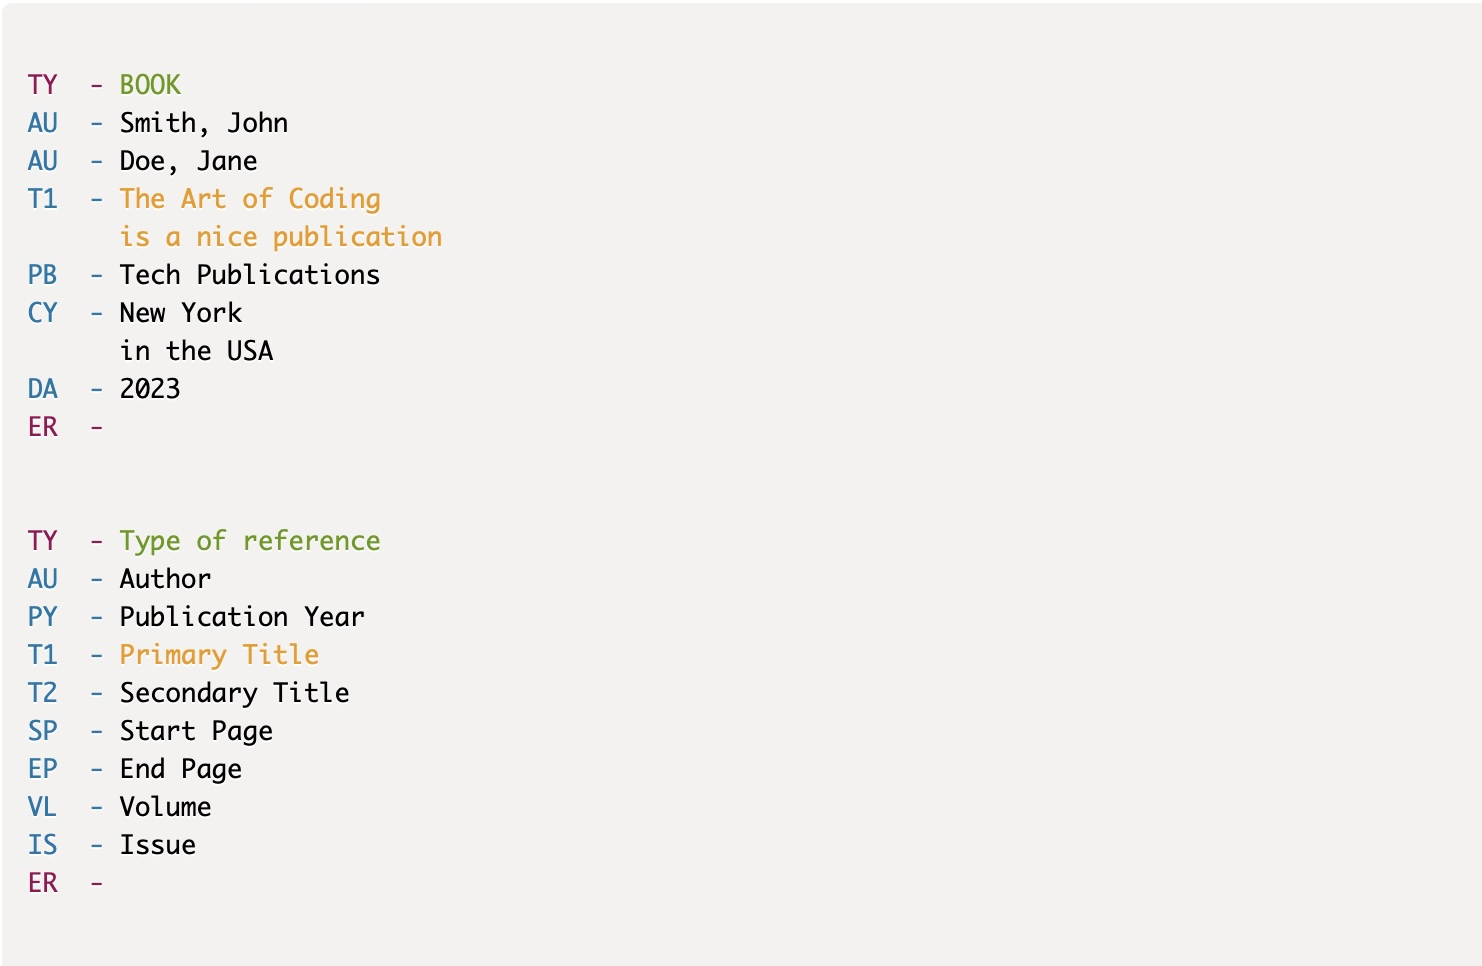
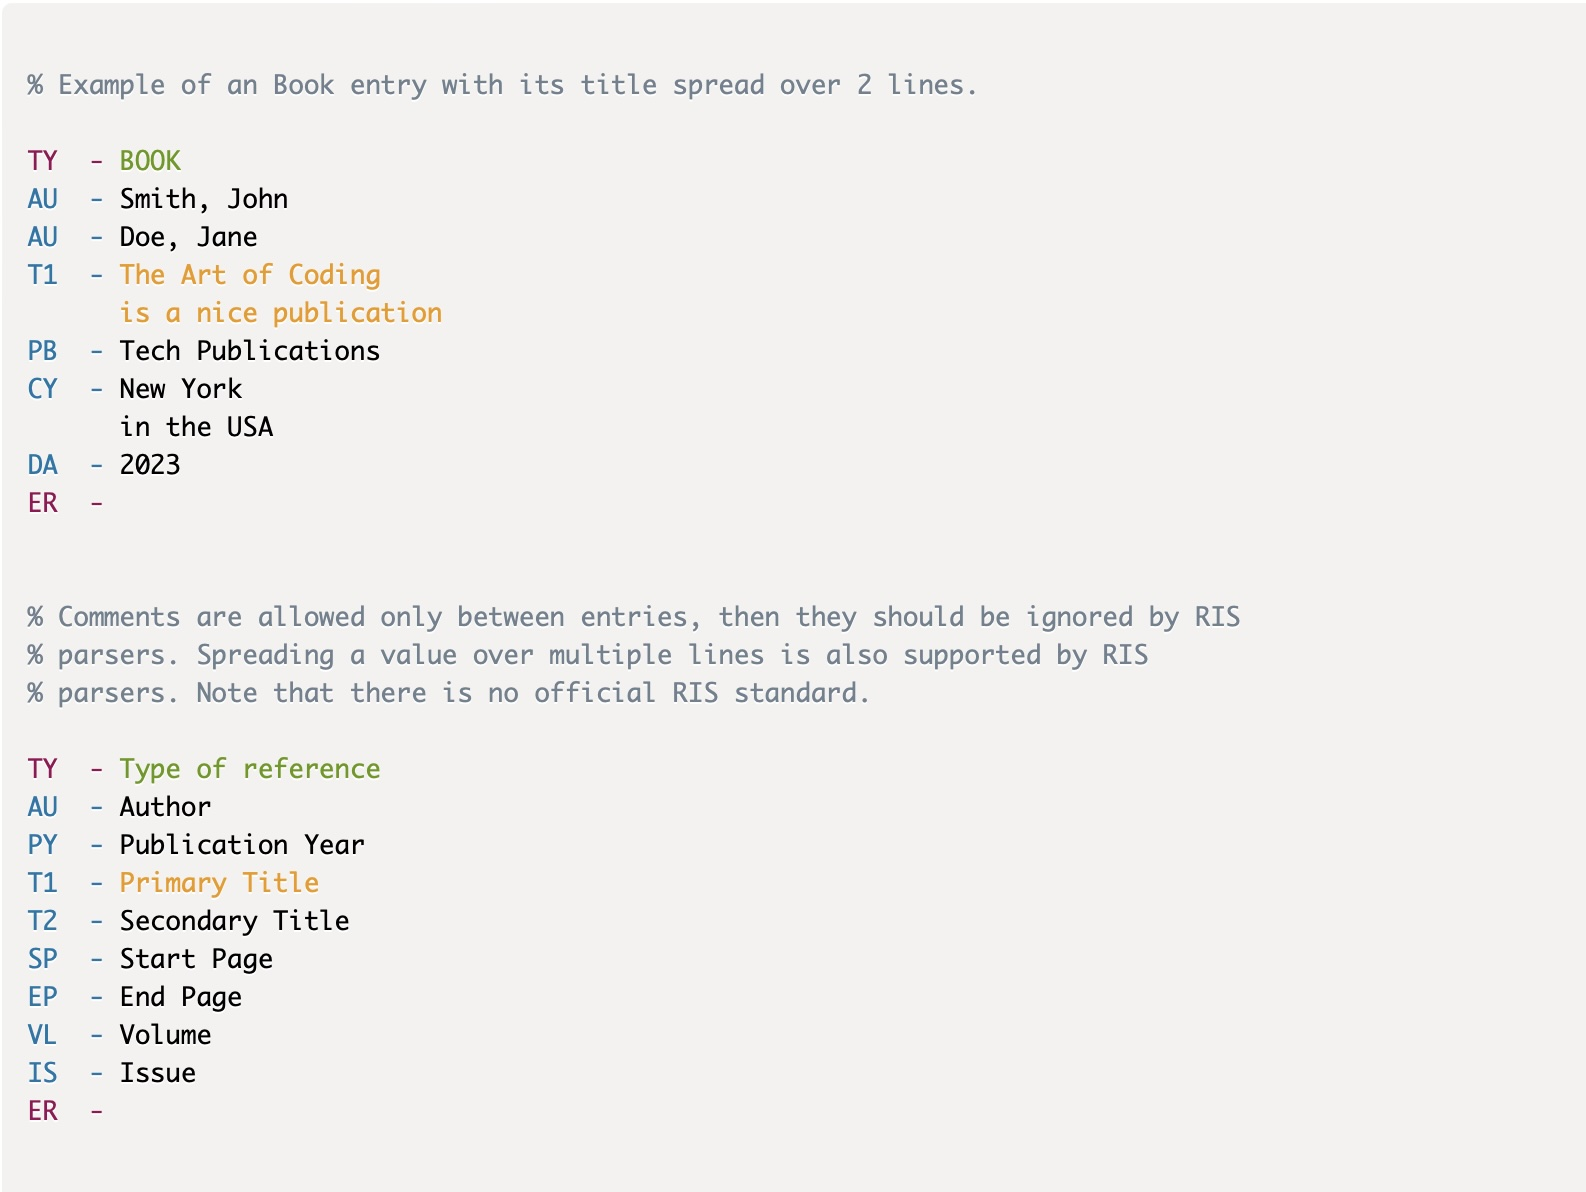
improved example and comments about it

Changed region(s): [[0.0, 0.4969, 0.776, 0.9317], [0.0, 0.0621, 0.5277, 0.4658], [0.5587, 0.0621, 0.6208, 0.0932]]

diff --git a/example.html b/example.html
@@ -16,7 +16,7 @@
 
     <script src="https://cdnjs.cloudflare.com/ajax/libs/prism/1.23.0/prism.min.js"></script>
 
-    <script src="prism-ris.js"></script>
+    <script src="https://cdn.jsdelivr.net/npm/prismjs-ris@1.0.2/prism-ris.min.js"></script>
 
     <style>
       body {
@@ -42,6 +42,8 @@
     </p>
 
     <pre><code class="language-ris">
+% Example of an Book entry with its title spread over 2 lines.    
+
 TY  - BOOK
 AU  - Smith, John
 AU  - Doe, Jane
@@ -53,6 +55,10 @@ CY  - New York
 DA  - 2023
 ER  - 
 
+
+% Comments are allowed only between entries, then they should be ignored by RIS
+% parsers. Spreading a value over multiple lines is also supported by RIS 
+% parsers. Note that there is no official RIS standard.
 
 TY  - Type of reference
 AU  - Author
@@ -181,10 +187,10 @@ ER  -
 
 
 % Just use a % character followed by a space at the beginning of a line to
-% start a comment. Put a comment above the publication and separate it with multiple
-% empty lines above it and one between the comment and the publication. This makes
-% clear to which publication the comment belongs to, but it is clearly separated
-% from the publication.
+% start a comment. Put a comment above the publication and separate it with 
+% multiple empty lines above it and one between the comment and the 
+% publication. This makes clear to which publication the comment belongs to, 
+% but it is clearly separated from the publication.
 
 TY  - Type of reference
 AU  - Author

diff --git a/README.md b/README.md
@@ -3,7 +3,10 @@
 [![npm package](https://img.shields.io/npm/v/prismjs-ris?logo=npm&style=for-the-badge)](https://www.npmjs.com/package/prismjs-ris)
 [![jsDelivr hits](https://img.shields.io/jsdelivr/npm/hm/prismjs-ris?color=gold&logo=javascript&style=for-the-badge)](https://www.jsdelivr.com/package/npm/prismjs-ris)
 
-A [RIS] language extension for [PrismJS].
+Syntax highlighting the RIS publication format.
+
+Implemented by a language definition for RIS in the PrismJS syntax highlighting
+framework.
 
 ## Example
 
@@ -15,7 +18,10 @@ below in the image, but a live example is shown
 
 The start and end tags of a RIS publication are colored different then normal tags.
 The type of publication in the start tag and the title of the publication are each
-colored different to make them standout from normal tags.
+colored different to make them standout from normal tags. The
+[example](https://raw.githack.com/harcokuppens/prismjs-ris/main/example.html) also
+explains the details about comments in the RIS source which are ignored by RIS
+parsers.
 
 ## Usage
 
